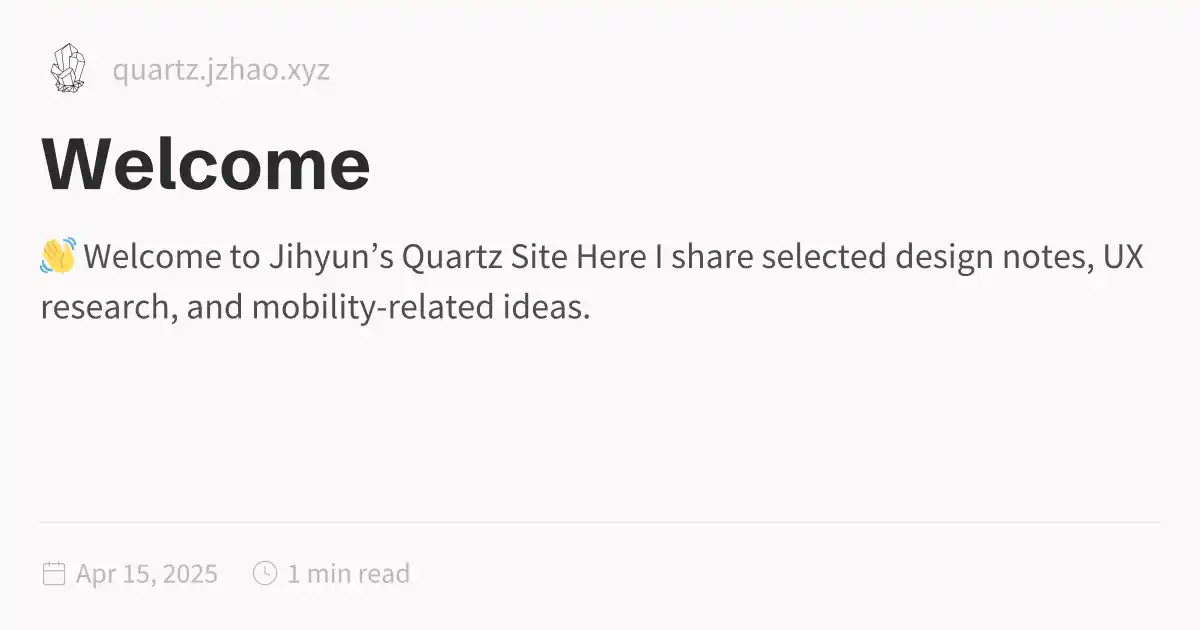
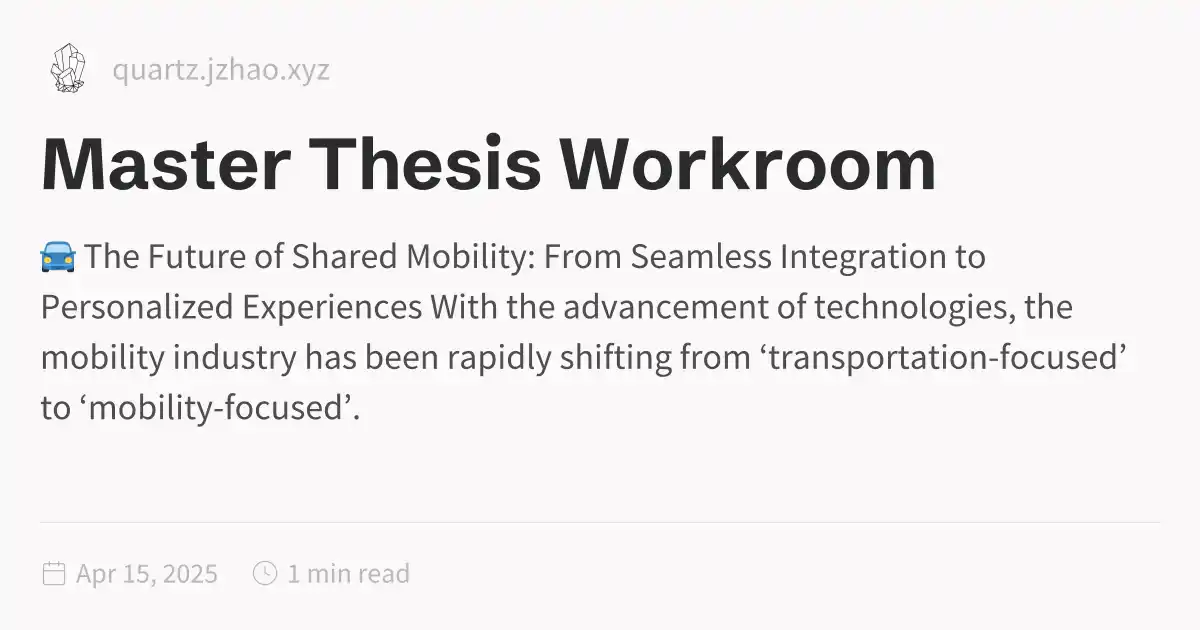
build: update index.md

diff --git a/index.html b/index.html
@@ -1,5 +1,5 @@
 <!DOCTYPE html>
-<html lang="en"><head><title>Welcome</title><meta charset="utf-8"/><link rel="preconnect" href="https://fonts.googleapis.com"/><link rel="preconnect" href="https://fonts.gstatic.com"/><link rel="stylesheet" href="https://fonts.googleapis.com/css2?family=Schibsted Grotesk:wght@400;700&amp;family=Source Sans Pro:ital,wght@0,400;0,600;1,400;1,600&amp;family=IBM Plex Mono:wght@400;600&amp;display=swap"/><link rel="preconnect" href="https://cdnjs.cloudflare.com" crossorigin="anonymous"/><meta name="viewport" content="width=device-width, initial-scale=1.0"/><meta name="og:site_name" content="Zoy.Jihyun Master Thesis"/><meta property="og:title" content="Welcome"/><meta property="og:type" content="website"/><meta name="twitter:card" content="summary_large_image"/><meta name="twitter:title" content="Welcome"/><meta name="twitter:description" content="👋 Welcome to Jihyun’s Quartz Site Here I share selected design notes, UX research, and mobility-related ideas."/><meta property="og:description" content="👋 Welcome to Jihyun’s Quartz Site Here I share selected design notes, UX research, and mobility-related ideas."/><meta property="og:image:alt" content="👋 Welcome to Jihyun’s Quartz Site Here I share selected design notes, UX research, and mobility-related ideas."/><meta property="twitter:domain" content="quartz.jzhao.xyz"/><meta property="og:url" content="https://quartz.jzhao.xyz/index"/><meta property="twitter:url" content="https://quartz.jzhao.xyz/index"/><link rel="icon" href="./static/icon.png"/><meta name="description" content="👋 Welcome to Jihyun’s Quartz Site Here I share selected design notes, UX research, and mobility-related ideas."/><meta name="generator" content="Quartz"/><link href="./index.css" rel="stylesheet" type="text/css" spa-preserve/><style>.expand-button {
+<html lang="en"><head><title>Master Thesis Workroom</title><meta charset="utf-8"/><link rel="preconnect" href="https://fonts.googleapis.com"/><link rel="preconnect" href="https://fonts.gstatic.com"/><link rel="stylesheet" href="https://fonts.googleapis.com/css2?family=Schibsted Grotesk:wght@400;700&amp;family=Source Sans Pro:ital,wght@0,400;0,600;1,400;1,600&amp;family=IBM Plex Mono:wght@400;600&amp;display=swap"/><link rel="preconnect" href="https://cdnjs.cloudflare.com" crossorigin="anonymous"/><meta name="viewport" content="width=device-width, initial-scale=1.0"/><meta name="og:site_name" content="Zoy.Jihyun Master Thesis"/><meta property="og:title" content="Master Thesis Workroom"/><meta property="og:type" content="website"/><meta name="twitter:card" content="summary_large_image"/><meta name="twitter:title" content="Master Thesis Workroom"/><meta name="twitter:description" content="🚘 The Future of Shared Mobility: From Seamless Integration to Personalized Experiences With the advancement of technologies, the mobility industry has been rapidly shifting from ‘transportation-focused’ to ‘mobility-focused’."/><meta property="og:description" content="🚘 The Future of Shared Mobility: From Seamless Integration to Personalized Experiences With the advancement of technologies, the mobility industry has been rapidly shifting from ‘transportation-focused’ to ‘mobility-focused’."/><meta property="og:image:alt" content="🚘 The Future of Shared Mobility: From Seamless Integration to Personalized Experiences With the advancement of technologies, the mobility industry has been rapidly shifting from ‘transportation-focused’ to ‘mobility-focused’."/><meta property="twitter:domain" content="quartz.jzhao.xyz"/><meta property="og:url" content="https://quartz.jzhao.xyz/index"/><meta property="twitter:url" content="https://quartz.jzhao.xyz/index"/><link rel="icon" href="./static/icon.png"/><meta name="description" content="🚘 The Future of Shared Mobility: From Seamless Integration to Personalized Experiences With the advancement of technologies, the mobility industry has been rapidly shifting from ‘transportation-focused’ to ‘mobility-focused’."/><meta name="generator" content="Quartz"/><link href="./index.css" rel="stylesheet" type="text/css" spa-preserve/><style>.expand-button {
   position: absolute;
   display: flex;
   float: right;
@@ -116,11 +116,12 @@ pre:hover > .expand-button {
   padding: 0 12px;
   font-size: 14px;
 }
[1 lines of base64/hex data omitted]
-<p>Here I share selected design notes, UX research, and mobility-related ideas.</p>
[1 lines of base64/hex data omitted]
+<p>With the advancement of technologies, the mobility industry has been rapidly shifting from ‘transportation-focused’ to ‘mobility-focused’. In the past, the focus was mainly on designing and developing specific modes of transportation, such as cars, trains, and buses, as well as operating them efficiently. However, more recently, the focus has shifted to the overall experience of mobility, along with innovations in technologies and services. This shift has been driven by advancements of innovative technologies such as AVs (Autonomous Vehicles), SDVs (Software Defined Vehicles), and MaaS (Mobility as a Service). These technologies go beyond simply providing means of transportation; they are becoming more integrated into our daily lives, creating personalized and efficient mobility experiences.</p>
+<p>Aligned with this shift, this project will explore potential future scenarios in mobility to envision new possibilities. These are the key aspects I aim to research and design:</p>
 <ul>
-<li><a href="./Comparative-Analysis" class="internal alias" data-slug="Comparative-Analysis">Comparative Analysis</a></li>
-<li><a href="./Future-Scenario-Development" class="internal alias" data-slug="Future-Scenario-Development">Future Scenario Development</a></li>
+<li>How shared mobility can <strong>seamlessly integrate into our daily lives</strong>.</li>
+<li>How SDV (Software Defined Vehicle) technology combined with AI can deliver <strong>personalized experiences</strong> in shared mobility.</li>
 </ul></article><hr/><div class="page-footer"></div></div><div class="right sidebar"></div><footer class><p>Created with <a href="https://quartz.jzhao.xyz/">Quartz v4.5.0</a> © 2025</p><ul><li><a href="https://github.com/jackyzha0/quartz">GitHub</a></li><li><a href="https://discord.gg/cRFFHYye7t">Discord Community</a></li></ul></footer></div></div></body><script type="application/javascript">function o(){let t=this.parentElement;t.classList.toggle("is-collapsed");let e=t.classList.contains("is-collapsed")?this.scrollHeight:t.scrollHeight;t.style.maxHeight=e+"px";let c=t,l=t.parentElement;for(;l;){if(!l.classList.contains("callout"))return;let i=l.classList.contains("is-collapsed")?l.scrollHeight:l.scrollHeight+c.scrollHeight;l.style.maxHeight=i+"px",c=l,l=l.parentElement}}function n(){let t=document.getElementsByClassName("callout is-collapsible");for(let s of t){let e=s.firstElementChild;if(!e)continue;e.addEventListener("click",o),window.addCleanup(()=>e.removeEventListener("click",o));let l=s.classList.contains("is-collapsed")?e.scrollHeight:s.scrollHeight;s.style.maxHeight=l+"px"}}document.addEventListener("nav",n);
 </script><script type="module">function f(i,e){if(!i)return;function r(o){o.target===this&&(o.preventDefault(),o.stopPropagation(),e())}function t(o){o.key.startsWith("Esc")&&(o.preventDefault(),e())}i?.addEventListener("click",r),window.addCleanup(()=>i?.removeEventListener("click",r)),document.addEventListener("keydown",t),window.addCleanup(()=>document.removeEventListener("keydown",t))}function y(i){for(;i.firstChild;)i.removeChild(i.firstChild)}var h=class{constructor(e,r){this.container=e;this.content=r;this.setupEventListeners(),this.setupNavigationControls(),this.resetTransform()}isDragging=!1;startPan={x:0,y:0};currentPan={x:0,y:0};scale=1;MIN_SCALE=.5;MAX_SCALE=3;cleanups=[];setupEventListeners(){let e=this.onMouseDown.bind(this),r=this.onMouseMove.bind(this),t=this.onMouseUp.bind(this),o=this.resetTransform.bind(this);this.container.addEventListener("mousedown",e),document.addEventListener("mousemove",r),document.addEventListener("mouseup",t),window.addEventListener("resize",o),this.cleanups.push(()=>this.container.removeEventListener("mousedown",e),()=>document.removeEventListener("mousemove",r),()=>document.removeEventListener("mouseup",t),()=>window.removeEventListener("resize",o))}cleanup(){for(let e of this.cleanups)e()}setupNavigationControls(){let e=document.createElement("div");e.className="mermaid-controls";let r=this.createButton("+",()=>this.zoom(.1)),t=this.createButton("-",()=>this.zoom(-.1)),o=this.createButton("Reset",()=>this.resetTransform());e.appendChild(t),e.appendChild(o),e.appendChild(r),this.container.appendChild(e)}createButton(e,r){let t=document.createElement("button");return t.textContent=e,t.className="mermaid-control-button",t.addEventListener("click",r),window.addCleanup(()=>t.removeEventListener("click",r)),t}onMouseDown(e){e.button===0&&(this.isDragging=!0,this.startPan={x:e.clientX-this.currentPan.x,y:e.clientY-this.currentPan.y},this.container.style.cursor="grabbing")}onMouseMove(e){this.isDragging&&(e.preventDefault(),this.currentPan={x:e.clientX-this.startPan.x,y:e.clientY-this.startPan.y},this.updateTransform())}onMouseUp(){this.isDragging=!1,this.container.style.cursor="grab"}zoom(e){let r=Math.min(Math.max(this.scale+e,this.MIN_SCALE),this.MAX_SCALE),t=this.content.getBoundingClientRect(),o=t.width/2,n=t.height/2,c=r-this.scale;this.currentPan.x-=o*c,this.currentPan.y-=n*c,this.scale=r,this.updateTransform()}updateTransform(){this.content.style.transform=`translate(${this.currentPan.x}px, ${this.currentPan.y}px) scale(${this.scale})`}resetTransform(){this.scale=1;let e=this.content.querySelector("svg");this.currentPan={x:e.getBoundingClientRect().width/2,y:e.getBoundingClientRect().height/2},this.updateTransform()}},C=["--secondary","--tertiary","--gray","--light","--lightgray","--highlight","--dark","--darkgray","--codeFont"],E;document.addEventListener("nav",async()=>{let e=document.querySelector(".center").querySelectorAll("code.mermaid");if(e.length===0)return;E||=await import("https://cdnjs.cloudflare.com/ajax/libs/mermaid/11.4.0/mermaid.esm.min.mjs");let r=E.default,t=new WeakMap;for(let n of e)t.set(n,n.innerText);async function o(){for(let s of e){s.removeAttribute("data-processed");let a=t.get(s);a&&(s.innerHTML=a)}let n=C.reduce((s,a)=>(s[a]=window.getComputedStyle(document.documentElement).getPropertyValue(a),s),{}),c=document.documentElement.getAttribute("saved-theme")==="dark";r.initialize({startOnLoad:!1,securityLevel:"loose",theme:c?"dark":"base",themeVariables:{fontFamily:n["--codeFont"],primaryColor:n["--light"],primaryTextColor:n["--darkgray"],primaryBorderColor:n["--tertiary"],lineColor:n["--darkgray"],secondaryColor:n["--secondary"],tertiaryColor:n["--tertiary"],clusterBkg:n["--light"],edgeLabelBackground:n["--highlight"]}}),await r.run({nodes:e})}await o(),document.addEventListener("themechange",o),window.addCleanup(()=>document.removeEventListener("themechange",o));for(let n=0;n<e.length;n++){let v=function(){let g=l.querySelector("#mermaid-space"),m=l.querySelector(".mermaid-content");if(!m)return;y(m);let w=c.querySelector("svg").cloneNode(!0);m.appendChild(w),l.classList.add("active"),g.style.cursor="grab",u=new h(g,m)},M=function(){l.classList.remove("active"),u?.cleanup(),u=null},c=e[n],s=c.parentElement,a=s.querySelector(".clipboard-button"),d=s.querySelector(".expand-button"),p=window.getComputedStyle(a),L=a.offsetWidth+parseFloat(p.marginLeft||"0")+parseFloat(p.marginRight||"0");d.style.right=`calc(${L}px + 0.3rem)`,s.prepend(d);let l=s.querySelector("#mermaid-container");if(!l)return;let u=null;d.addEventListener("click",v),f(l,M),window.addCleanup(()=>{u?.cleanup(),d.removeEventListener("click",v)})}});
 </script><script src="https://cdn.jsdelivr.net/npm/katex@0.16.11/dist/contrib/copy-tex.min.js" type="application/javascript"></script><script src="./postscript.js" type="module"></script></html>